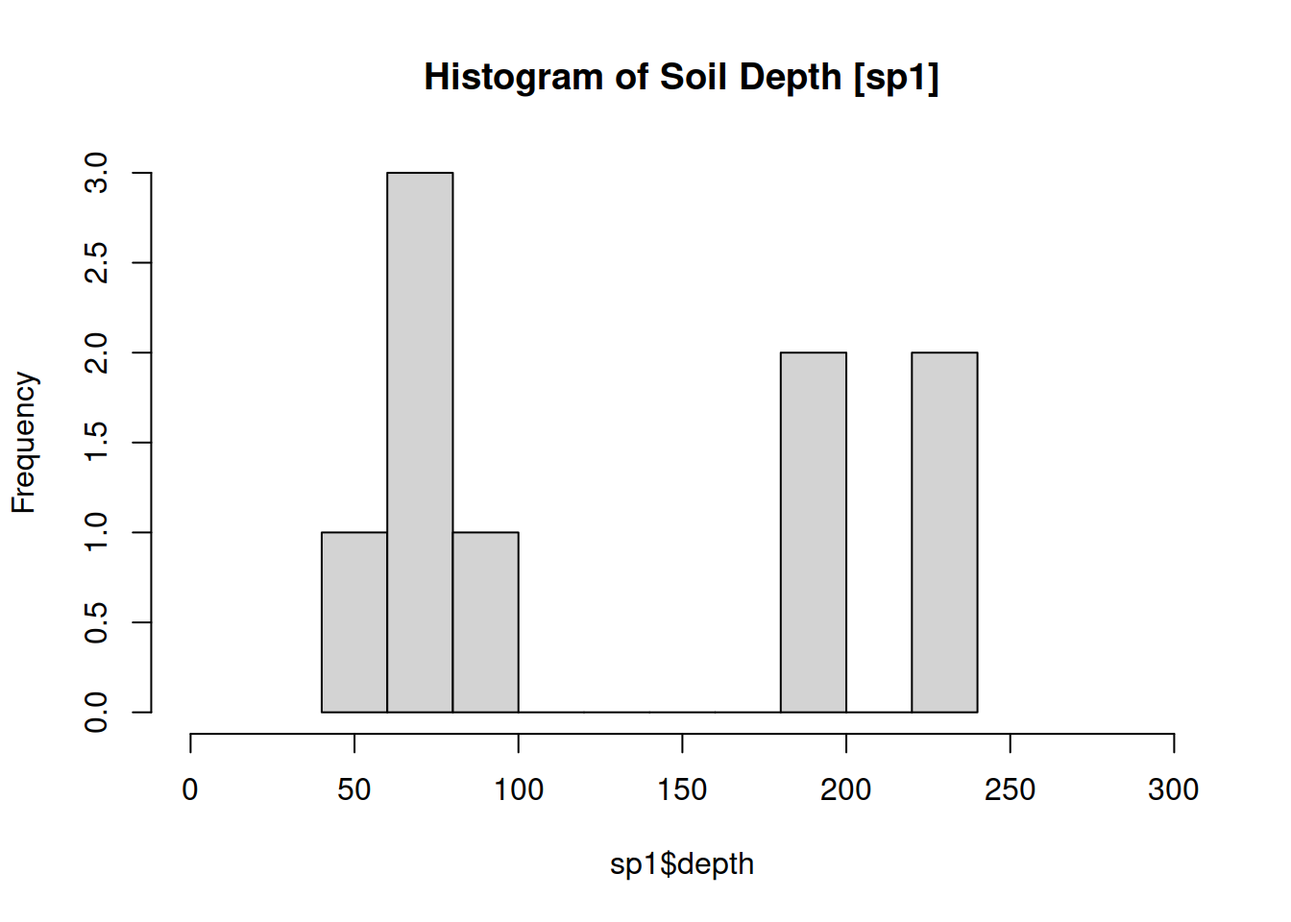
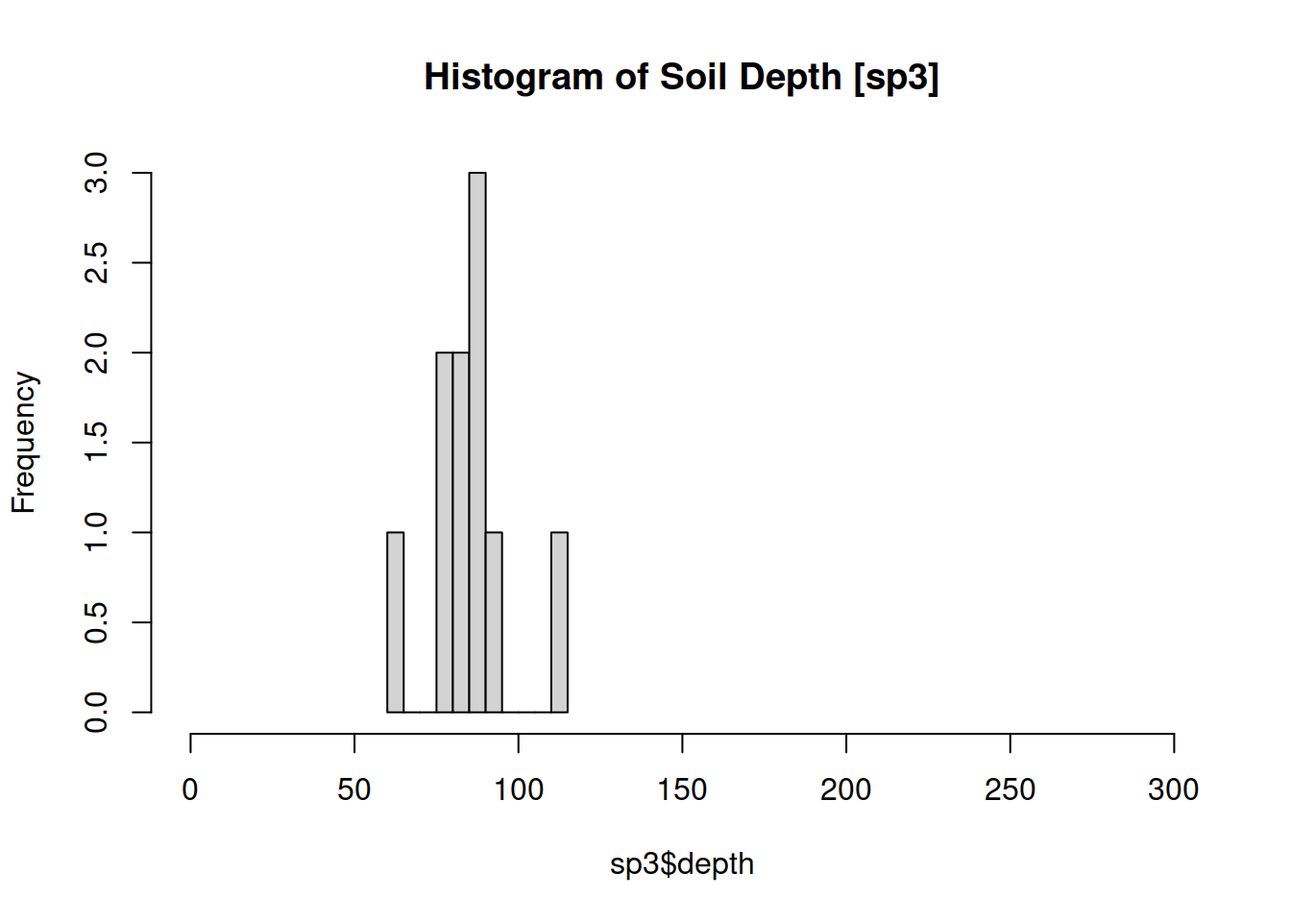
cleanup

diff --git a/content/post/2020-07-13-estimations-with-algorithms-for-quantitative-pedology.html b/content/post/2020-07-13-estimations-with-algorithms-for-quantitative-pedology.html
@@ -25,20 +25,20 @@ tags:
 <pre class="r"><code>library(aqp)
 
 # load example data from aqp package
-data(&quot;sp1&quot;)
+data(&quot;sp3&quot;)
 
 # create a SoilProfileCollection
 # depths specifies the profile ID, top and bottom depths in horizon data
-depths(sp1) &lt;- id ~ top + bottom
+depths(sp3) &lt;- id ~ top + bottom
 
 # inspect first 7 profiles from the set
-plotSPC(sp1[1:7,])</code></pre>
+plotSPC(sp3[1:7,])</code></pre>
 <p><img src="/post/2020-07-13-estimations-with-algorithms-for-quantitative-pedology_files/figure-html/estimateSoilDepth-1.png" width="960" /></p>
 <pre class="r"><code># aqp::profileApply and aqp::estimateSoilDepth 
 # 
-# - calculate depth of each profile in sp1
+# - calculate depth of each profile in sp3
 # 
-sp1$depth &lt;- profileApply(sp1, estimateSoilDepth)
+sp3$depth &lt;- profileApply(sp3, estimateSoilDepth)
 
 # aqp::guessHzDesgnName
 # 
@@ -46,34 +46,40 @@ sp1$depth &lt;- profileApply(sp1, estimateSoilDepth)
 # this is historic behavior of aqp::plotSPC and is used by estimateSoilDepth 
 # to locate the column containing horizon designations in the horizons slot
 # 
-guess &lt;- guessHzDesgnName(sp1)
+guess &lt;- guessHzDesgnName(sp3)
 guess</code></pre>
-<pre><code>## [1] &quot;&quot;</code></pre>
+<pre><code>## [1] &quot;name&quot;</code></pre>
 <pre class="r"><code># inspect
-horizons(sp1)[[guess]]</code></pre>
-<pre><code>## NULL</code></pre>
+horizons(sp3)[[guess]]</code></pre>
+<pre><code>##  [1] &quot;18 / 28&quot; &quot;19 / 14&quot; &quot;21 / 14&quot; &quot;22 / 13&quot; &quot;20 / 12&quot; &quot;7 / 8&quot;   &quot;7 / 5&quot;  
+##  [8] &quot;7 / 5&quot;   &quot;8 / 5&quot;   &quot;18 / 22&quot; &quot;20 / 13&quot; &quot;22 / 15&quot; &quot;25 / 14&quot; &quot;33 / 22&quot;
+## [15] &quot;56 / 42&quot; &quot;46 / 34&quot; &quot;15 / 16&quot; &quot;18 / 13&quot; &quot;21 / 14&quot; &quot;28 / 16&quot; &quot;46 / 40&quot;
+## [22] &quot;34 / 39&quot; &quot;14 / 20&quot; &quot;18 / 13&quot; &quot;25 / 14&quot; &quot;35 / 22&quot; &quot;39 / 26&quot; &quot;15 / 23&quot;
+## [29] &quot;22 / 12&quot; &quot;32 / 9&quot;  &quot;51 / 11&quot; &quot;7 / 7&quot;   &quot;6 / 4&quot;   &quot;10 / 5&quot;  &quot;11 / 6&quot; 
+## [36] &quot;11 / 6&quot;  &quot;11 / 6&quot;  &quot;16 / 7&quot;  &quot;9 / 7&quot;   &quot;9 / 8&quot;   &quot;8 / 6&quot;   &quot;10 / 5&quot; 
+## [43] &quot;12 / 15&quot; &quot;9 / 6&quot;   &quot;8 / 5&quot;   &quot;5 / 4&quot;</code></pre>
 <p>At the most basic level in an “estimate” you have one or more inputs producing a single, possibly complex, output. Estimates might be made at the horizon, site/profile or group level.</p>
-<p>Let’s look at all of the soil depths in the <code>sp1</code> collection as a histogram. We make an estimate for each profile, then we summarize those estimates for the “group” <code>sp1</code>.</p>
-<pre class="r"><code>hist(sp1$depth, 
-     main = &quot;Histogram of Soil Depth [sp1]&quot;, 
+<p>Let’s look at all of the soil depths in the <code>sp3</code> collection as a histogram. We make an estimate for each profile, then we summarize those estimates for the “group” <code>sp3</code>.</p>
+<pre class="r"><code>hist(sp3$depth, 
+     main = &quot;Histogram of Soil Depth [sp3]&quot;, 
      xlim = c(0,300),
      breaks = 8, freq = TRUE)</code></pre>
 <p><img src="/post/2020-07-13-estimations-with-algorithms-for-quantitative-pedology_files/figure-html/plot-hist-depth-1.png" width="672" /></p>
-<pre class="r"><code>res &lt;- quantile(sp1$depth, probs = c(0.05,0.5,0.95))</code></pre>
+<pre class="r"><code>res &lt;- quantile(sp3$depth, probs = c(0.05,0.5,0.95))</code></pre>
 <p>We can summarize distributions of samples and populations (“groups”) quantitatively using <em>quantiles</em>, as shown in the code above.</p>
 <p><code>res</code> contains the following:</p>
 <pre class="r"><code>res</code></pre>
-<pre><code>##    5%   50%   95% 
-##  60.2  89.0 237.2</code></pre>
+<pre><code>##     5%    50%    95% 
+##  69.00  86.50 104.35</code></pre>
 <p>These quantiles are <code>x</code> “positions” along an the “probability density function” – an empirically defined, non-parametric curve fit to the available data. The observed values (<code>prop</code>) are the <code>y</code> axis.</p>
 <p>Approximately 5% of data values are greater than the 95th percentile (0.95 probability level). And likewise for the proportion of values that are less than the 5th percentile. Using the default quantile method, values returned may be interpolated between observed values, depending on the distribution and probability levels requested (<code>probs</code> argument).</p>
 <pre class="r"><code># make a plot of soil_depth probability density function (pdf)
-plot(density(sp1$depth, na.rm=TRUE, bw=5), 
-     main=&quot;Density plot of Soil Depth [sp1]&quot;)
+plot(density(sp3$depth, na.rm=TRUE, bw=5), 
+     main=&quot;Density plot of Soil Depth [sp3]&quot;)
 
 # add summary statistics
 abline(v = res[2], lwd = 2, col = &quot;RED&quot;) # median / 50%
-abline(v = mean(sp1$depth), lwd = 2, col = &quot;blue&quot;) # mean
+abline(v = mean(sp3$depth), lwd = 2, col = &quot;blue&quot;) # mean
 abline(v = res[-2], lty = 2) # everything other than the median (5%+95%)
 
 # add legend
@@ -82,19 +88,20 @@ legend(&quot;topright&quot;,
        col = c(&quot;RED&quot;,&quot;BLUE&quot;,&quot;BLACK&quot;), 
        lty = c(1,2,2), lwd = c(2,2,1))</code></pre>
 <p><img src="/post/2020-07-13-estimations-with-algorithms-for-quantitative-pedology_files/figure-html/plot-density-depth-1.png" width="960" /></p>
-<p>This small dataset of 9 pedons has a distinctly bimodal appearance – there appear to be two groups: moderately deep and very deep.</p>
-<p>The 5th and 95th percentiles are broadly spaced. The mean is affected by several large values, whereas the median reflects a general concentration of data towards the lower end of the scale.</p>
-<pre class="r"><code>getSoilDepthClass(sp1)</code></pre>
-<pre><code>##     id depth very.shallow shallow mod.deep  deep very.deep depth.class
-## 1 P001    89        FALSE   FALSE     TRUE FALSE     FALSE    mod.deep
-## 2 P002    59        FALSE   FALSE     TRUE FALSE     FALSE    mod.deep
-## 3 P003    67        FALSE   FALSE     TRUE FALSE     FALSE    mod.deep
-## 4 P004    62        FALSE   FALSE     TRUE FALSE     FALSE    mod.deep
-## 5 P005    68        FALSE   FALSE     TRUE FALSE     FALSE    mod.deep
-## 6 P006   200        FALSE   FALSE    FALSE FALSE      TRUE   very.deep
-## 7 P007   233        FALSE   FALSE    FALSE FALSE      TRUE   very.deep
-## 8 P008   200        FALSE   FALSE    FALSE FALSE      TRUE   very.deep
-## 9 P009   240        FALSE   FALSE    FALSE FALSE      TRUE   very.deep</code></pre>
+<p>This small dataset of 10 pedons has a unimodal appearance.</p>
+<p>The 5th and 95th percentiles generally encompass the moderately deep depth class. The mean is affected by several large values, whereas the median reflects a general concentration of data towards the lower end of the scale.</p>
+<pre class="r"><code>getSoilDepthClass(sp3)</code></pre>
+<pre><code>##    id depth very.shallow shallow mod.deep  deep very.deep depth.class
+## 1   1    80        FALSE   FALSE     TRUE FALSE     FALSE    mod.deep
+## 2  10    90        FALSE   FALSE     TRUE FALSE     FALSE    mod.deep
+## 3   2    85        FALSE   FALSE     TRUE FALSE     FALSE    mod.deep
+## 4   3    90        FALSE   FALSE     TRUE FALSE     FALSE    mod.deep
+## 5   4    88        FALSE   FALSE     TRUE FALSE     FALSE    mod.deep
+## 6   5    60        FALSE   FALSE     TRUE FALSE     FALSE    mod.deep
+## 7   6    85        FALSE   FALSE     TRUE FALSE     FALSE    mod.deep
+## 8   7    95        FALSE   FALSE     TRUE FALSE     FALSE    mod.deep
+## 9   8   112        FALSE   FALSE    FALSE  TRUE     FALSE        deep
+## 10  9    80        FALSE   FALSE     TRUE FALSE     FALSE    mod.deep</code></pre>
 <p>Looking back at the original profile plot, we notice most do not have bedrock layers as part of the description though there is wide variation in depth class from moderately to very deep. It would be interesting to have more detailed description about the nature of those contacts.</p>
 <div id="lets-consider-issue-27-from-aqp." class="section level4">
 <h4>Let’s consider Issue #27 from <em>aqp</em>.</h4>
@@ -168,13 +175,14 @@ legend(&quot;topright&quot;,
 <li><p>What is most likely estimate [accounting for 1 and 2]?</p></li>
 </ol>
 <p>In theory, a “rating” can be made for <em>each possible</em> estimate. The specific types of “estimate support” and logic problems, and their relative weights, are <em>data-model specific</em>. But the broad concept of “estimate quality” is generic: stack up a bunch of logical/numeric evaluations on attributes to assign a “quality ranking.”</p>
-<p>“Estimates” should be based on one or more site or horizon level properties reduced to a single value per horizon or profile.When estimating a site-level value there could be several possible “candidate values” due to many:one attribute:horizon:site relationships. In a single horizon with multiple attributes the aggregate of attributes may favor one value over others, which in turn may affect some aggregation to a site-level value. Where there is “confusion” about which “candidate value” to support the “quality” of the estimate is lower.</p>
+<p>“Estimates” should be based on one or more site or horizon level properties reduced to a single value per horizon or profile.</p>
+<p>When estimating a site-level value there could be several possible “candidate values” due to many:one attribute:horizon:site relationships. In a single horizon with multiple attributes the aggregate of attributes may favor one value over others, which in turn may affect some aggregation to a site-level value. Where there is “confusion” about which “candidate value” to support the “quality” of the estimate is lower.</p>
 </div>
 <div id="paralithic-contacts-paralithic-materials-lithic-contacts-and-the-materials-below-a-lithic-contact" class="section level4">
 <h4>Paralithic contacts, paralithic materials, lithic contacts, and the materials below a lithic contact</h4>
 <p>A common thing I am suspicious of in my area of the world are 25cm thick Cr horizons with no underlying R. This incidentally falls right on the line for the series control section. Was a lithic contact encountered at 25cm that caused them to stop digging? Was it intended to imply that the paralithic materials were thick? Was it a misunderstanding of the difference between describing the whole series control section and a data population standard?</p>
-<p>Digging to 25cm with extreme effort just to call it a 25cm thick Cr defeats the purpose – so the soil scientist was not clear on why they were digging / required to describe that far. These observations often are great in terms of soil properties for the solum but are inadequate to assess paralithic materials thickness in the series control section. It is quite likely that in the parent materials in question these pits were not dug to 25cm below the contact. If the Cr is that diggable, it is not difficult to put it past the threshold for the SCS. If it is not, you should be either describing an R or making a note that the Cr is definitvely &gt;25cm thick.</p>
-<p>For series criteria, one needs to “decide” whether the soil has a thick or a thin paralithic material “mantle” one way or another. There is nothing magical about “25,” other than it is the limit that was chosen, On some level, the decision MUST happen in the field. If adequate ancillary data are recorded in the field, such as: excavation difficulty, cementation, rooting patterns, MOISTURE patterns, then that decision can be assessed to varying degrees in the future.</p>
+<p>Digging to 25cm with extreme effort just to call it a 25cm thick Cr defeats the purpose – so the soil scientist was not clear on why they were digging / required to describe that far. These observations often are great in terms of soil properties for the solum but are inadequate to assess paralithic materials thickness in the Series Control Section. It is quite likely that in the parent materials in question these pits were not dug to 25cm below the contact. If the Cr is that “diggable,” it is not difficult to put it past the threshold for the Series Control Section. If it is not, you should be either describing an R or making a note that the Cr is definitively &gt;25cm thick.</p>
+<p>For series criteria, one needs to “decide” whether the soil has a thick or a thin paralithic material “mantle” one way or another. There is nothing magical about “25,” other than it is the limit that was chosen. On some level, the decision MUST happen in the field. If adequate ancillary data are recorded in the field, such as: excavation difficulty, cementation, rooting patterns, MOISTURE patterns, then that decision can be assessed to varying degrees in the future.</p>
 <p>Deviation between horizons, diagnostics and restrictions is handled variably in Quality Assurance around the country; some of which has probably spurred arbitrary “corrections” of data that were “inconsistent” or missing. In my work I have been allowed to have these properties deviate if needed – but do not generally feel the need to take this option.</p>
 </div>
 <div id="effects-on-soil-correlation" class="section level4">
@@ -183,7 +191,7 @@ legend(&quot;topright&quot;,
 <p>Two easy justifications for this in my mind are close root spacing or significant pedogenic development – which preclude densic materials. Practical reasons why one might “want” a densic restriction despite one or more criteria being met would be to use it to justify Endo- versus Epi aqu- Great Groups. Since up to 25 cm below certain root limiting layers is included in the control section, it can be used to demonstrate “dry materials” within the lower part of the control section.</p>
 <p>This all reflects a much more general “problem” in soil survey: It is very difficult to “prove” the existence of soil types that hinge on recording very specific attributes. This is especially true if the data are not all collected by the same scientist(s) or under the same set of working standards – but applies just as well because of “Nature.”</p>
 <p>Matching up to a very detailed “prototype” pedon doesn’t usually pan out when you “fan out all the descriptions for a soil component and squint your eyes.” A description containing multiple horizons that could construed as a contact is inherently reflective of a detailed description.</p>
-<p>There is value in having a highdetail in descriptions – but it requires considering properties (like contacts) “in aggregate” after some sort of risk-weighting logic.</p>
+<p>There is value in having a high-detail in individual descriptions but it requires considering properties (like contacts) “in aggregate” after some sort of risk-weighting logic, as well as other simplifications to make estimates more generic.</p>
 </div>
 <div id="extending-estimatesoildepth" class="section level4">
 <h4>Extending <code>estimateSoilDepth</code></h4>
@@ -209,9 +217,9 @@ lines(density(depth_to_Cd, from = 0, bw = 10, na.rm = TRUE), col = 8, lwd = 2)
 lines(density(depth_to_Cr, from = 0, bw = 10, na.rm = TRUE), col = 1, lwd = 1, lty = 2)
 legend(&quot;top&quot;, c(&quot;k&quot;,&quot;kk&quot;,&quot;y&quot;,&quot;Cd&quot;, &quot;Cr&quot;), col = c(7,3,12,8,1), lwd = c(2,2,2,2,1), lty=c(1,1,1,1,2))</code></pre>
 <p><img src="/post/2020-07-13-estimations-with-algorithms-for-quantitative-pedology_files/figure-html/unnamed-chunk-6-1.png" width="672" /></p>
-<p>My preference from here would be to leave <code>estimateSoilDepth</code> alone, and generalize <code>depthOf</code> further for arbitrary logical expressions (like <code>aqp::filter</code>). Pattern matching behavior could be replicated using <code>grepl</code> based expressions.</p>
-<p>The old dataset that was pulled before cementation and other criteria were included in the default fetchNASIS result. Dylan already did the diagnostic horizon based analysis.</p>
-<p>Here we inspect for evidence of pedogenesis. We can clearly see that all Cd horizons without <code>k</code> or <code>y</code> suffixes (<code>depth_to_Cd2</code>) are deeper than the corresponding estimate that looked for any horizon just containing <code>Cd</code>: the default part used in <code>estimateSoilDepth. A custom pattern to filter to Cd without pedogenesis or Cr or R would be</code>“Cd[^ky]|Cr|R”`</p>
+<p>My preference from here would be to leave <code>estimateSoilDepth</code> alone, and generalize <code>depthOf</code> further for arbitrary logical expressions like several other functions in <code>aqp</code>, only for horizon data explicitly. Pattern matching behavior could be replicated using <code>grepl</code> based expressions.</p>
+<p>The old dataset I provide in the CSV files that was queried from NASIS before cementation and other criteria were included in the default <code>fetchNASIS</code> result. Dylan already did the diagnostic horizon based analysis in his post on the issue, so we will do something different.</p>
+<p>Here we inspect for evidence of pedogenesis – as you cannot meet the criteria for densic materials if you have significant pedogenesis. We can clearly see that all Cd horizons without <code>k</code> or <code>y</code> suffixes (<code>depth_to_Cd2</code>) are deeper than the corresponding estimate that looked for any horizon just containing <code>Cd</code>: the default part used in <code>estimateSoilDepth</code>. A custom pattern to filter to Cd without pedogenesis or Cr or R would be <code>"Cd[^ky]|Cr|R"</code></p>
 <pre class="r"><code>plot(depth_to_Cd ~ depth_to_Cd2)</code></pre>
 <p><img src="/post/2020-07-13-estimations-with-algorithms-for-quantitative-pedology_files/figure-html/unnamed-chunk-7-1.png" width="672" /></p>
 </div>

diff --git a/public/post/2020/07/13/estimations-with-algorithms-for-quantitative-pedology/index.html b/public/post/2020/07/13/estimations-with-algorithms-for-quantitative-pedology/index.html
@@ -66,20 +66,20 @@
 <pre class="r"><code>library(aqp)
 
 # load example data from aqp package
-data(&quot;sp1&quot;)
+data(&quot;sp3&quot;)
 
 # create a SoilProfileCollection
 # depths specifies the profile ID, top and bottom depths in horizon data
-depths(sp1) &lt;- id ~ top + bottom
+depths(sp3) &lt;- id ~ top + bottom
 
 # inspect first 7 profiles from the set
-plotSPC(sp1[1:7,])</code></pre>
+plotSPC(sp3[1:7,])</code></pre>
 <p><img src="/post/2020-07-13-estimations-with-algorithms-for-quantitative-pedology_files/figure-html/estimateSoilDepth-1.png" width="960" /></p>
 <pre class="r"><code># aqp::profileApply and aqp::estimateSoilDepth 
 # 
-# - calculate depth of each profile in sp1
+# - calculate depth of each profile in sp3
 # 
-sp1$depth &lt;- profileApply(sp1, estimateSoilDepth)
+sp3$depth &lt;- profileApply(sp3, estimateSoilDepth)
 
 # aqp::guessHzDesgnName
 # 
@@ -87,34 +87,40 @@ sp1$depth &lt;- profileApply(sp1, estimateSoilDepth)
 # this is historic behavior of aqp::plotSPC and is used by estimateSoilDepth 
 # to locate the column containing horizon designations in the horizons slot
 # 
-guess &lt;- guessHzDesgnName(sp1)
+guess &lt;- guessHzDesgnName(sp3)
 guess</code></pre>
-<pre><code>## [1] &quot;&quot;</code></pre>
+<pre><code>## [1] &quot;name&quot;</code></pre>
 <pre class="r"><code># inspect
-horizons(sp1)[[guess]]</code></pre>
-<pre><code>## NULL</code></pre>
+horizons(sp3)[[guess]]</code></pre>
+<pre><code>##  [1] &quot;18 / 28&quot; &quot;19 / 14&quot; &quot;21 / 14&quot; &quot;22 / 13&quot; &quot;20 / 12&quot; &quot;7 / 8&quot;   &quot;7 / 5&quot;  
+##  [8] &quot;7 / 5&quot;   &quot;8 / 5&quot;   &quot;18 / 22&quot; &quot;20 / 13&quot; &quot;22 / 15&quot; &quot;25 / 14&quot; &quot;33 / 22&quot;
+## [15] &quot;56 / 42&quot; &quot;46 / 34&quot; &quot;15 / 16&quot; &quot;18 / 13&quot; &quot;21 / 14&quot; &quot;28 / 16&quot; &quot;46 / 40&quot;
+## [22] &quot;34 / 39&quot; &quot;14 / 20&quot; &quot;18 / 13&quot; &quot;25 / 14&quot; &quot;35 / 22&quot; &quot;39 / 26&quot; &quot;15 / 23&quot;
+## [29] &quot;22 / 12&quot; &quot;32 / 9&quot;  &quot;51 / 11&quot; &quot;7 / 7&quot;   &quot;6 / 4&quot;   &quot;10 / 5&quot;  &quot;11 / 6&quot; 
+## [36] &quot;11 / 6&quot;  &quot;11 / 6&quot;  &quot;16 / 7&quot;  &quot;9 / 7&quot;   &quot;9 / 8&quot;   &quot;8 / 6&quot;   &quot;10 / 5&quot; 
+## [43] &quot;12 / 15&quot; &quot;9 / 6&quot;   &quot;8 / 5&quot;   &quot;5 / 4&quot;</code></pre>
 <p>At the most basic level in an “estimate” you have one or more inputs producing a single, possibly complex, output. Estimates might be made at the horizon, site/profile or group level.</p>
-<p>Let’s look at all of the soil depths in the <code>sp1</code> collection as a histogram. We make an estimate for each profile, then we summarize those estimates for the “group” <code>sp1</code>.</p>
-<pre class="r"><code>hist(sp1$depth, 
-     main = &quot;Histogram of Soil Depth [sp1]&quot;, 
+<p>Let’s look at all of the soil depths in the <code>sp3</code> collection as a histogram. We make an estimate for each profile, then we summarize those estimates for the “group” <code>sp3</code>.</p>
+<pre class="r"><code>hist(sp3$depth, 
+     main = &quot;Histogram of Soil Depth [sp3]&quot;, 
      xlim = c(0,300),
      breaks = 8, freq = TRUE)</code></pre>
 <p><img src="/post/2020-07-13-estimations-with-algorithms-for-quantitative-pedology_files/figure-html/plot-hist-depth-1.png" width="672" /></p>
-<pre class="r"><code>res &lt;- quantile(sp1$depth, probs = c(0.05,0.5,0.95))</code></pre>
+<pre class="r"><code>res &lt;- quantile(sp3$depth, probs = c(0.05,0.5,0.95))</code></pre>
 <p>We can summarize distributions of samples and populations (“groups”) quantitatively using <em>quantiles</em>, as shown in the code above.</p>
 <p><code>res</code> contains the following:</p>
 <pre class="r"><code>res</code></pre>
-<pre><code>##    5%   50%   95% 
-##  60.2  89.0 237.2</code></pre>
+<pre><code>##     5%    50%    95% 
+##  69.00  86.50 104.35</code></pre>
 <p>These quantiles are <code>x</code> “positions” along an the “probability density function” – an empirically defined, non-parametric curve fit to the available data. The observed values (<code>prop</code>) are the <code>y</code> axis.</p>
 <p>Approximately 5% of data values are greater than the 95th percentile (0.95 probability level). And likewise for the proportion of values that are less than the 5th percentile. Using the default quantile method, values returned may be interpolated between observed values, depending on the distribution and probability levels requested (<code>probs</code> argument).</p>
 <pre class="r"><code># make a plot of soil_depth probability density function (pdf)
-plot(density(sp1$depth, na.rm=TRUE, bw=5), 
-     main=&quot;Density plot of Soil Depth [sp1]&quot;)
+plot(density(sp3$depth, na.rm=TRUE, bw=5), 
+     main=&quot;Density plot of Soil Depth [sp3]&quot;)
 
 # add summary statistics
 abline(v = res[2], lwd = 2, col = &quot;RED&quot;) # median / 50%
-abline(v = mean(sp1$depth), lwd = 2, col = &quot;blue&quot;) # mean
+abline(v = mean(sp3$depth), lwd = 2, col = &quot;blue&quot;) # mean
 abline(v = res[-2], lty = 2) # everything other than the median (5%+95%)
 
 # add legend
@@ -123,19 +129,20 @@ legend(&quot;topright&quot;,
        col = c(&quot;RED&quot;,&quot;BLUE&quot;,&quot;BLACK&quot;), 
        lty = c(1,2,2), lwd = c(2,2,1))</code></pre>
 <p><img src="/post/2020-07-13-estimations-with-algorithms-for-quantitative-pedology_files/figure-html/plot-density-depth-1.png" width="960" /></p>
-<p>This small dataset of 9 pedons has a distinctly bimodal appearance – there appear to be two groups: moderately deep and very deep.</p>
-<p>The 5th and 95th percentiles are broadly spaced. The mean is affected by several large values, whereas the median reflects a general concentration of data towards the lower end of the scale.</p>
-<pre class="r"><code>getSoilDepthClass(sp1)</code></pre>
-<pre><code>##     id depth very.shallow shallow mod.deep  deep very.deep depth.class
-## 1 P001    89        FALSE   FALSE     TRUE FALSE     FALSE    mod.deep
-## 2 P002    59        FALSE   FALSE     TRUE FALSE     FALSE    mod.deep
-## 3 P003    67        FALSE   FALSE     TRUE FALSE     FALSE    mod.deep
-## 4 P004    62        FALSE   FALSE     TRUE FALSE     FALSE    mod.deep
-## 5 P005    68        FALSE   FALSE     TRUE FALSE     FALSE    mod.deep
-## 6 P006   200        FALSE   FALSE    FALSE FALSE      TRUE   very.deep
-## 7 P007   233        FALSE   FALSE    FALSE FALSE      TRUE   very.deep
-## 8 P008   200        FALSE   FALSE    FALSE FALSE      TRUE   very.deep
-## 9 P009   240        FALSE   FALSE    FALSE FALSE      TRUE   very.deep</code></pre>
+<p>This small dataset of 10 pedons has a unimodal appearance.</p>
+<p>The 5th and 95th percentiles generally encompass the moderately deep depth class. The mean is affected by several large values, whereas the median reflects a general concentration of data towards the lower end of the scale.</p>
+<pre class="r"><code>getSoilDepthClass(sp3)</code></pre>
+<pre><code>##    id depth very.shallow shallow mod.deep  deep very.deep depth.class
+## 1   1    80        FALSE   FALSE     TRUE FALSE     FALSE    mod.deep
+## 2  10    90        FALSE   FALSE     TRUE FALSE     FALSE    mod.deep
+## 3   2    85        FALSE   FALSE     TRUE FALSE     FALSE    mod.deep
+## 4   3    90        FALSE   FALSE     TRUE FALSE     FALSE    mod.deep
+## 5   4    88        FALSE   FALSE     TRUE FALSE     FALSE    mod.deep
+## 6   5    60        FALSE   FALSE     TRUE FALSE     FALSE    mod.deep
+## 7   6    85        FALSE   FALSE     TRUE FALSE     FALSE    mod.deep
+## 8   7    95        FALSE   FALSE     TRUE FALSE     FALSE    mod.deep
+## 9   8   112        FALSE   FALSE    FALSE  TRUE     FALSE        deep
+## 10  9    80        FALSE   FALSE     TRUE FALSE     FALSE    mod.deep</code></pre>
 <p>Looking back at the original profile plot, we notice most do not have bedrock layers as part of the description though there is wide variation in depth class from moderately to very deep. It would be interesting to have more detailed description about the nature of those contacts.</p>
 <div id="lets-consider-issue-27-from-aqp." class="section level4">
 <h4>Let’s consider Issue #27 from <em>aqp</em>.</h4>
@@ -209,13 +216,14 @@ legend(&quot;topright&quot;,
 <li><p>What is most likely estimate [accounting for 1 and 2]?</p></li>
 </ol>
 <p>In theory, a “rating” can be made for <em>each possible</em> estimate. The specific types of “estimate support” and logic problems, and their relative weights, are <em>data-model specific</em>. But the broad concept of “estimate quality” is generic: stack up a bunch of logical/numeric evaluations on attributes to assign a “quality ranking.”</p>
-<p>“Estimates” should be based on one or more site or horizon level properties reduced to a single value per horizon or profile.When estimating a site-level value there could be several possible “candidate values” due to many:one attribute:horizon:site relationships. In a single horizon with multiple attributes the aggregate of attributes may favor one value over others, which in turn may affect some aggregation to a site-level value. Where there is “confusion” about which “candidate value” to support the “quality” of the estimate is lower.</p>
+<p>“Estimates” should be based on one or more site or horizon level properties reduced to a single value per horizon or profile.</p>
+<p>When estimating a site-level value there could be several possible “candidate values” due to many:one attribute:horizon:site relationships. In a single horizon with multiple attributes the aggregate of attributes may favor one value over others, which in turn may affect some aggregation to a site-level value. Where there is “confusion” about which “candidate value” to support the “quality” of the estimate is lower.</p>
 </div>
 <div id="paralithic-contacts-paralithic-materials-lithic-contacts-and-the-materials-below-a-lithic-contact" class="section level4">
 <h4>Paralithic contacts, paralithic materials, lithic contacts, and the materials below a lithic contact</h4>
 <p>A common thing I am suspicious of in my area of the world are 25cm thick Cr horizons with no underlying R. This incidentally falls right on the line for the series control section. Was a lithic contact encountered at 25cm that caused them to stop digging? Was it intended to imply that the paralithic materials were thick? Was it a misunderstanding of the difference between describing the whole series control section and a data population standard?</p>
-<p>Digging to 25cm with extreme effort just to call it a 25cm thick Cr defeats the purpose – so the soil scientist was not clear on why they were digging / required to describe that far. These observations often are great in terms of soil properties for the solum but are inadequate to assess paralithic materials thickness in the series control section. It is quite likely that in the parent materials in question these pits were not dug to 25cm below the contact. If the Cr is that diggable, it is not difficult to put it past the threshold for the SCS. If it is not, you should be either describing an R or making a note that the Cr is definitvely &gt;25cm thick.</p>
-<p>For series criteria, one needs to “decide” whether the soil has a thick or a thin paralithic material “mantle” one way or another. There is nothing magical about “25,” other than it is the limit that was chosen, On some level, the decision MUST happen in the field. If adequate ancillary data are recorded in the field, such as: excavation difficulty, cementation, rooting patterns, MOISTURE patterns, then that decision can be assessed to varying degrees in the future.</p>
+<p>Digging to 25cm with extreme effort just to call it a 25cm thick Cr defeats the purpose – so the soil scientist was not clear on why they were digging / required to describe that far. These observations often are great in terms of soil properties for the solum but are inadequate to assess paralithic materials thickness in the Series Control Section. It is quite likely that in the parent materials in question these pits were not dug to 25cm below the contact. If the Cr is that “diggable,” it is not difficult to put it past the threshold for the Series Control Section. If it is not, you should be either describing an R or making a note that the Cr is definitively &gt;25cm thick.</p>
+<p>For series criteria, one needs to “decide” whether the soil has a thick or a thin paralithic material “mantle” one way or another. There is nothing magical about “25,” other than it is the limit that was chosen. On some level, the decision MUST happen in the field. If adequate ancillary data are recorded in the field, such as: excavation difficulty, cementation, rooting patterns, MOISTURE patterns, then that decision can be assessed to varying degrees in the future.</p>
 <p>Deviation between horizons, diagnostics and restrictions is handled variably in Quality Assurance around the country; some of which has probably spurred arbitrary “corrections” of data that were “inconsistent” or missing. In my work I have been allowed to have these properties deviate if needed – but do not generally feel the need to take this option.</p>
 </div>
 <div id="effects-on-soil-correlation" class="section level4">
@@ -224,7 +232,7 @@ legend(&quot;topright&quot;,
 <p>Two easy justifications for this in my mind are close root spacing or significant pedogenic development – which preclude densic materials. Practical reasons why one might “want” a densic restriction despite one or more criteria being met would be to use it to justify Endo- versus Epi aqu- Great Groups. Since up to 25 cm below certain root limiting layers is included in the control section, it can be used to demonstrate “dry materials” within the lower part of the control section.</p>
 <p>This all reflects a much more general “problem” in soil survey: It is very difficult to “prove” the existence of soil types that hinge on recording very specific attributes. This is especially true if the data are not all collected by the same scientist(s) or under the same set of working standards – but applies just as well because of “Nature.”</p>
 <p>Matching up to a very detailed “prototype” pedon doesn’t usually pan out when you “fan out all the descriptions for a soil component and squint your eyes.” A description containing multiple horizons that could construed as a contact is inherently reflective of a detailed description.</p>
-<p>There is value in having a highdetail in descriptions – but it requires considering properties (like contacts) “in aggregate” after some sort of risk-weighting logic.</p>
+<p>There is value in having a high-detail in individual descriptions but it requires considering properties (like contacts) “in aggregate” after some sort of risk-weighting logic, as well as other simplifications to make estimates more generic.</p>
 </div>
 <div id="extending-estimatesoildepth" class="section level4">
 <h4>Extending <code>estimateSoilDepth</code></h4>
@@ -250,9 +258,9 @@ lines(density(depth_to_Cd, from = 0, bw = 10, na.rm = TRUE), col = 8, lwd = 2)
 lines(density(depth_to_Cr, from = 0, bw = 10, na.rm = TRUE), col = 1, lwd = 1, lty = 2)
 legend(&quot;top&quot;, c(&quot;k&quot;,&quot;kk&quot;,&quot;y&quot;,&quot;Cd&quot;, &quot;Cr&quot;), col = c(7,3,12,8,1), lwd = c(2,2,2,2,1), lty=c(1,1,1,1,2))</code></pre>
 <p><img src="/post/2020-07-13-estimations-with-algorithms-for-quantitative-pedology_files/figure-html/unnamed-chunk-6-1.png" width="672" /></p>
-<p>My preference from here would be to leave <code>estimateSoilDepth</code> alone, and generalize <code>depthOf</code> further for arbitrary logical expressions (like <code>aqp::filter</code>). Pattern matching behavior could be replicated using <code>grepl</code> based expressions.</p>
-<p>The old dataset that was pulled before cementation and other criteria were included in the default fetchNASIS result. Dylan already did the diagnostic horizon based analysis.</p>
-<p>Here we inspect for evidence of pedogenesis. We can clearly see that all Cd horizons without <code>k</code> or <code>y</code> suffixes (<code>depth_to_Cd2</code>) are deeper than the corresponding estimate that looked for any horizon just containing <code>Cd</code>: the default part used in <code>estimateSoilDepth. A custom pattern to filter to Cd without pedogenesis or Cr or R would be</code>“Cd[^ky]|Cr|R”`</p>
+<p>My preference from here would be to leave <code>estimateSoilDepth</code> alone, and generalize <code>depthOf</code> further for arbitrary logical expressions like several other functions in <code>aqp</code>, only for horizon data explicitly. Pattern matching behavior could be replicated using <code>grepl</code> based expressions.</p>
+<p>The old dataset I provide in the CSV files that was queried from NASIS before cementation and other criteria were included in the default <code>fetchNASIS</code> result. Dylan already did the diagnostic horizon based analysis in his post on the issue, so we will do something different.</p>
+<p>Here we inspect for evidence of pedogenesis – as you cannot meet the criteria for densic materials if you have significant pedogenesis. We can clearly see that all Cd horizons without <code>k</code> or <code>y</code> suffixes (<code>depth_to_Cd2</code>) are deeper than the corresponding estimate that looked for any horizon just containing <code>Cd</code>: the default part used in <code>estimateSoilDepth</code>. A custom pattern to filter to Cd without pedogenesis or Cr or R would be <code>"Cd[^ky]|Cr|R"</code></p>
 <pre class="r"><code>plot(depth_to_Cd ~ depth_to_Cd2)</code></pre>
 <p><img src="/post/2020-07-13-estimations-with-algorithms-for-quantitative-pedology_files/figure-html/unnamed-chunk-7-1.png" width="672" /></p>
 </div>
